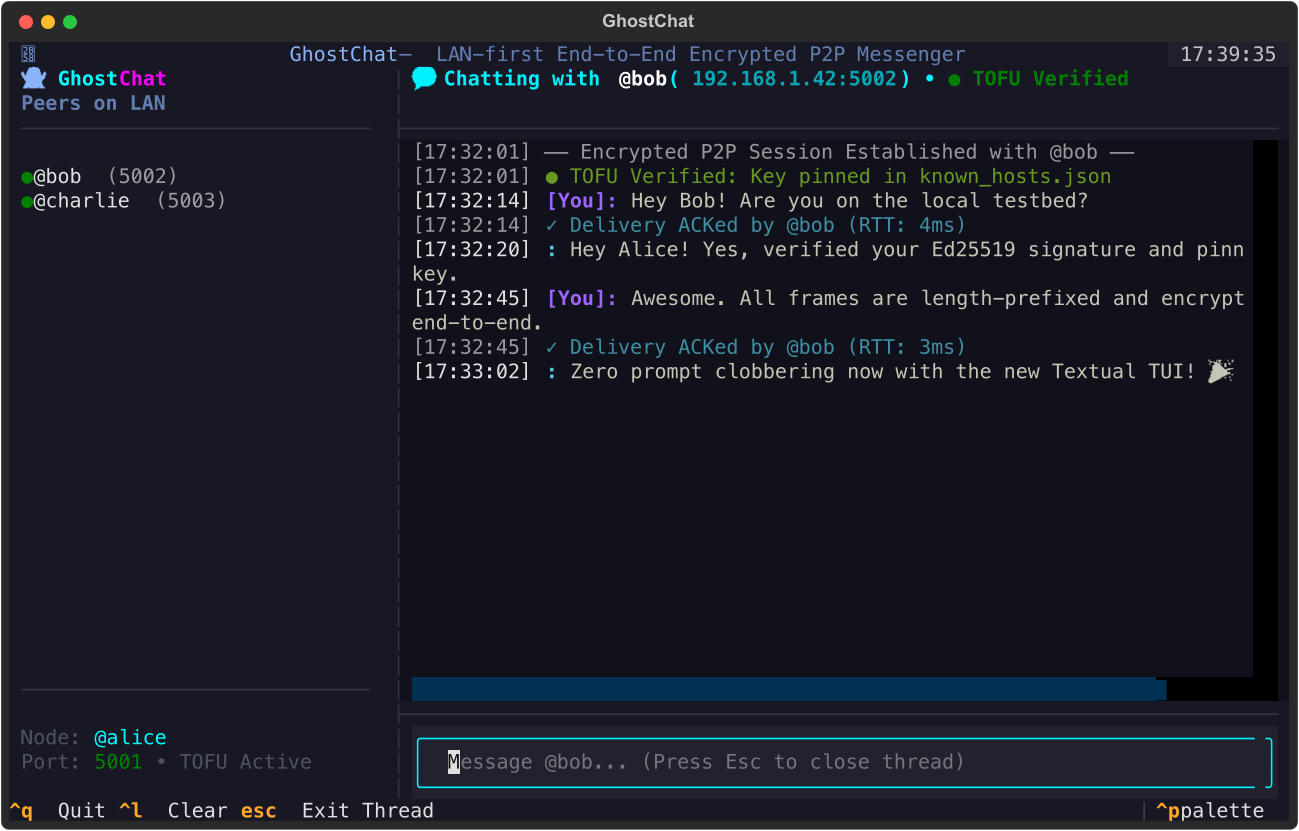
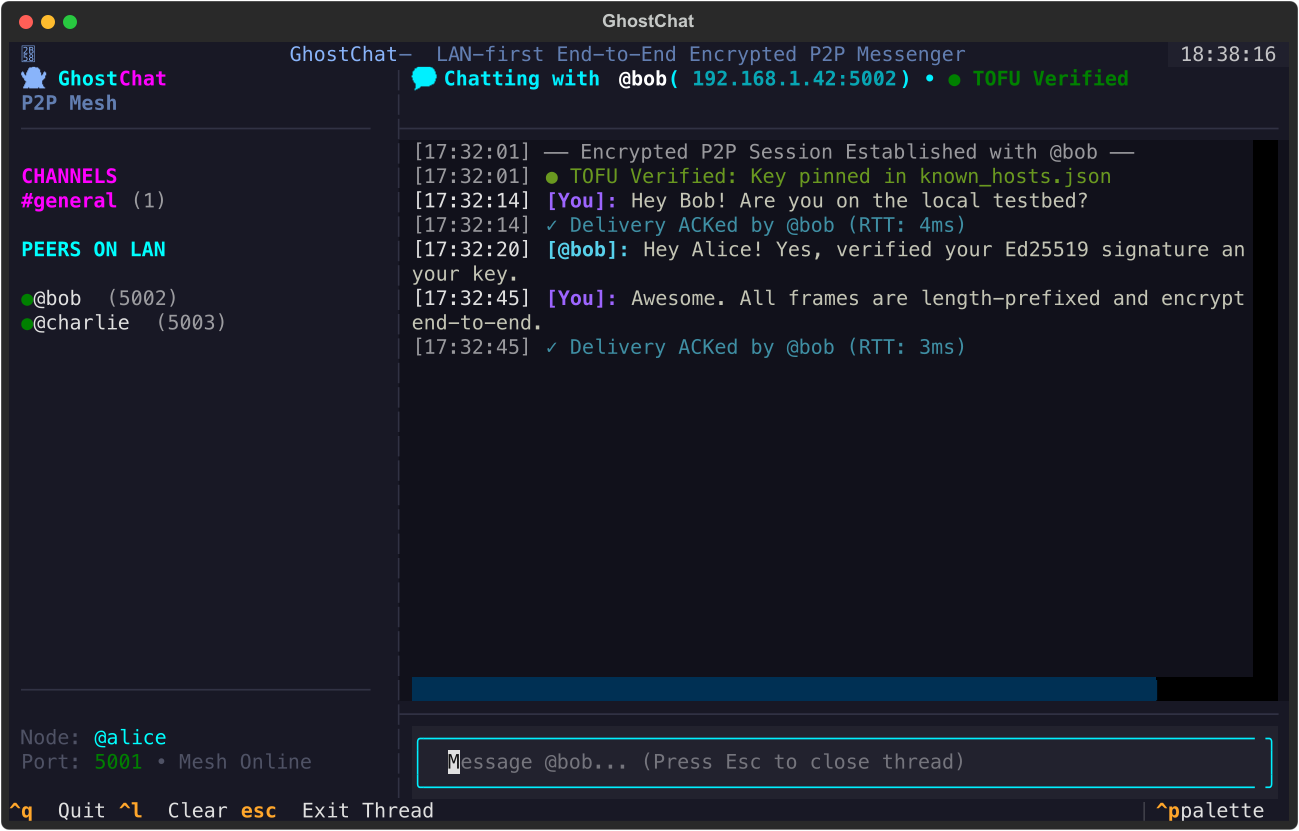
fix(tui): isolate thread panes and add per-peer conversation history
- Clear chat pane on opening any channel or peer thread to eliminate thread mixing
- Add persistent per-peer conversation history tracking in SessionManager
- Replay complete thread history upon switching between peers and channels
- Replace chat log notice spam with non-intrusive Textual toast notifications (self.notify)
- Prevent incoming messages for other peers/channels from polluting or clobbering the active thread
- Clear chat pane when returning to Welcome Dashboard with Esc
- Add comprehensive automated test for thread pane isolation (tests/test_tui.py)

diff --git a/ghostchat/ui/app.py b/ghostchat/ui/app.py
@@ -291,10 +291,10 @@ class GhostChatTUIApp(App):
                     )
             else:
                 self.refresh_channels_sidebar()
-                if self.active_peer or self.backend.session.active_channel:
-                    chat_log.write(
-                        f"[dim][{timestamp}] [yellow]Notice:[/yellow] New message in [bold magenta]{escape(channel)}[/bold magenta] from @{escape(sender)}.[/dim]"
-                    )
+                try:
+                    self.notify(f"New message from @{sender}", title=f"Channel {channel}", severity="information")
+                except Exception:
+                    pass
 
         self.call_from_thread(update_ui)
 
@@ -325,21 +325,19 @@ class GhostChatTUIApp(App):
             if routing.get("action") == "active":
                 chat_log.write(f"[{timestamp}] [bold cyan]{escape(f'[@{sender}]')}:[/bold cyan] [white]{escape(text)}[/white]")
             elif routing.get("action") == "auto_opened":
-                # Auto-open thread
+                # Auto-open thread cleanly from welcome dashboard
                 matched = routing.get("peer")
                 if matched:
-                    self.open_chat_thread(matched, quiet=True)
-                chat_log.write(f"[{timestamp}] [bold cyan]{escape(f'[@{sender}]')}:[/bold cyan] [white]{escape(text)}[/white]")
+                    self.open_chat_thread(matched, quiet=False)
             elif routing.get("action") == "queued":
-                # Background unread
+                # Message is for another thread; update sidebar badge and display toast notification
                 self.refresh_peer_sidebar()
-                if self.active_peer:
-                    chat_log.write(
-                        f"[dim][{timestamp}] [yellow]Notice:[/yellow] New message from @{escape(sender)}. "
-                        "Switch peer to view.[/dim]"
-                    )
+                try:
+                    self.notify(f"New direct message from @{sender}", title="Direct Message", severity="information")
+                except Exception:
+                    pass
             else:
-                chat_log.write(f"[{timestamp}] [bold green]{escape(f'[@{sender}]')}:[/bold green] [white]{escape(text)}[/white]")
+                self.refresh_peer_sidebar()
 
         self.call_from_thread(update_ui)
 
@@ -358,7 +356,7 @@ class GhostChatTUIApp(App):
 
     def open_chat_thread(self, peer: Peer, quiet: bool = False) -> None:
         self.active_peer = peer
-        pending_entry = self.backend.session.set_active_peer(peer)
+        self.backend.session.set_active_peer(peer)
 
         welcome_view = self.query_one("#welcome-container")
         chat_log = self.query_one("#chat-log", RichLog)
@@ -367,6 +365,7 @@ class GhostChatTUIApp(App):
 
         welcome_view.styles.display = "none"
         chat_log.styles.display = "block"
+        chat_log.clear()
 
         trust_tag = "[green]● TOFU Verified[/green]" if peer.is_trusted else "[red]▲ UNTRUSTED[/red]"
         chat_header.update(
@@ -382,14 +381,19 @@ class GhostChatTUIApp(App):
                 f"[dim][{timestamp}] ── Thread opened with @{peer.username} ──[/dim]"
             )
 
-        # Replay any buffered unread messages
-        if pending_entry and pending_entry.get("messages"):
-            for msg in pending_entry["messages"]:
-                chat_log.write(
-                    f"[bold cyan]{escape(f'[@{peer.username}]')}:[/bold cyan] [white]{escape(msg)}[/white]"
-                )
+        # Replay full peer conversation history
+        history = self.backend.session.get_peer_messages(peer.peer_id)
+        for entry in history:
+            t = time.strftime("%H:%M:%S", time.localtime(entry.get("timestamp", time.time())))
+            sender = entry.get("sender", "unknown")
+            text = entry.get("text", "")
+            if entry.get("is_self") or sender == self.backend.username:
+                chat_log.write(f"[{t}] [bold blue][You]:[/bold blue] [white]{escape(text)}[/white]")
+            else:
+                chat_log.write(f"[{t}] [bold cyan]{escape(f'[@{peer.username}]')}:[/bold cyan] [white]{escape(text)}[/white]")
 
         self.refresh_peer_sidebar()
+        self.refresh_channels_sidebar()
 
     def open_channel_thread(self, channel: str, quiet: bool = False) -> None:
         self.active_peer = None
@@ -431,6 +435,7 @@ class GhostChatTUIApp(App):
             else:
                 chat_log.write(f"[{t}] [bold magenta]{escape(f'[{channel} | @{sender}]')}:[/bold magenta] [white]{escape(text)}[/white]")
 
+        self.refresh_peer_sidebar()
         self.refresh_channels_sidebar()
 
     def action_close_thread(self) -> None:
@@ -442,6 +447,7 @@ class GhostChatTUIApp(App):
         chat_header = self.query_one("#chat-header", Static)
         message_input = self.query_one("#message-input", Input)
 
+        chat_log.clear()
         chat_log.styles.display = "none"
         welcome_view.styles.display = "block"
         chat_header.update("👻 GhostChat • No active thread (Select a channel or peer or type /help)")
@@ -493,6 +499,7 @@ class GhostChatTUIApp(App):
         # Regular message in active 1-on-1 peer chat thread
         if self.active_peer is not None:
             peer = self.active_peer
+            self.backend.session.record_outgoing_peer_message(peer.peer_id, self.backend.username, text)
             chat_log.write(f"[{timestamp}] [bold blue][You]:[/bold blue] [white]{escape(text)}[/white]")
             threading.Thread(
                 target=self._send_message_worker,
@@ -645,7 +652,12 @@ class GhostChatTUIApp(App):
                 chat_log.write(f"[yellow]Multiple peers match '{escape(target_token)}'. Specify username@port.[/yellow]")
                 return
             chat_log.write(f"[{timestamp}] [bold blue]{escape(f'[To @{resolved.username}]')}:[/bold blue] [white]{escape(msg_text)}[/white]")
+            self.backend.session.record_outgoing_peer_message(resolved.peer_id, self.backend.username, msg_text)
             threading.Thread(target=self._send_message_worker, args=(resolved, msg_text), daemon=True).start()
+            return
+
+        if cmd_line == "/chat":
+            chat_log.write("[yellow]Usage: /chat <@peer or #channel>[/yellow]")
             return
 
         if cmd_line.startswith("/chat "):
@@ -655,10 +667,10 @@ class GhostChatTUIApp(App):
                 return
             resolved = SessionManager.resolve_target(self.backend.discovery.peers(), target_token)
             if resolved is None:
-                chat_log.write(f"[yellow]Peer '{target_token}' not found.[/yellow]")
+                chat_log.write(f"[yellow]Peer '{escape(target_token)}' not found.[/yellow]")
                 return
             if isinstance(resolved, list):
-                chat_log.write(f"[yellow]Multiple peers match '{target_token}'.[/yellow]")
+                chat_log.write(f"[yellow]Multiple peers match '{escape(target_token)}'. Specify username@port.[/yellow]")
                 return
             self.open_chat_thread(resolved)
             return

diff --git a/tests/test_tui.py b/tests/test_tui.py
@@ -106,3 +106,87 @@ def test_tui_input_visibility_and_command(tmp_path, monkeypatch) -> None:
             assert chat_log.styles.display == "block"
 
     asyncio.run(run())
+
+
+def test_tui_thread_pane_isolation(tmp_path, monkeypatch) -> None:
+    async def run() -> None:
+        monkeypatch.setattr("ghostchat.crypto.keys.KEY_ROOT_DIR", tmp_path)
+        backend = GhostChatApp(username="alice", port=59998)
+        tui_app = GhostChatTUIApp(backend=backend)
+
+        import base64
+        from nacl.public import PrivateKey
+
+        valid_pk_b64 = base64.b64encode(bytes(PrivateKey.generate().public_key)).decode("utf-8")
+
+        bob = Peer(
+            peer_id="bob-id",
+            username="bob",
+            ip="127.0.0.1",
+            tcp_port=59992,
+            enc_public_key_b64=valid_pk_b64,
+            sign_public_key_b64=valid_pk_b64,
+            last_seen=1000.0,
+        )
+
+        async with tui_app.run_test(size=(100, 30)) as pilot:
+            # 1. Open Bob's thread
+            tui_app.open_chat_thread(bob)
+            msg_input = tui_app.query_one("#message-input", Input)
+            msg_input.value = "Hello Bob direct message"
+            await pilot.press("enter")
+
+            # Verify recorded in Bob's history
+            bob_msgs = backend.session.get_peer_messages(bob.peer_id)
+            assert len(bob_msgs) == 1
+            assert bob_msgs[0]["text"] == "Hello Bob direct message"
+
+            # 2. Switch to channel #general
+            tui_app.open_channel_thread("#general")
+            assert backend.session.active_channel == "#general"
+            assert tui_app.active_peer is None
+
+            # Bob's message should NOT be in #general's history
+            gen_msgs = backend.session.get_channel_messages("#general")
+            assert not any("Hello Bob direct message" in m["text"] for m in gen_msgs)
+
+            # Send in #general
+            msg_input.value = "Broadcast in general mesh"
+            await pilot.press("enter")
+            gen_msgs_after = backend.session.get_channel_messages("#general")
+            assert len(gen_msgs_after) >= 1
+            assert gen_msgs_after[-1]["text"] == "Broadcast in general mesh"
+
+            # 3. Switch back to Bob's thread
+            tui_app.open_chat_thread(bob)
+            assert tui_app.active_peer == bob
+            assert backend.session.active_channel is None
+
+            # Replayed history contains Bob's message
+            bob_msgs_after = backend.session.get_peer_messages(bob.peer_id)
+            assert len(bob_msgs_after) == 1
+            assert bob_msgs_after[0]["text"] == "Hello Bob direct message"
+
+            # 4. Simulate an incoming message from Charlie while viewing Bob
+            charlie = Peer(
+                peer_id="charlie-id",
+                username="charlie",
+                ip="127.0.0.1",
+                tcp_port=59993,
+                enc_public_key_b64="enc_key_c",
+                sign_public_key_b64="sign_key_c",
+                last_seen=1000.0,
+            )
+            routing = backend.session.record_incoming_message(
+                sender_peer_id=charlie.peer_id,
+                matched_peer=charlie,
+                plaintext="Hey Alice from Charlie",
+            )
+            # Routing must be queued (not active and not clobbering)
+            assert routing["action"] == "queued"
+            assert routing["unread_count"] == 1
+
+            # Bob's active thread is intact
+            assert tui_app.active_peer == bob
+
+    asyncio.run(run())

diff --git a/ghostchat/session/manager.py b/ghostchat/session/manager.py
@@ -1,5 +1,6 @@
 import base64
 import threading
+import time
 from typing import Any, Dict, List, Optional, Set, Tuple, Union
 
 from nacl.secret import SecretBox
@@ -21,6 +22,9 @@ class SessionManager:
         self._active_channel: Optional[str] = None
         self._channel_unread: Dict[str, int] = {}
         self._channel_messages: Dict[str, List[Dict[str, Any]]] = {"#general": []}
+
+        # Peer message history: peer_id -> List[Dict[str, Any]]
+        self._peer_messages: Dict[str, List[Dict[str, Any]]] = {}
 
     @property
     def chat_peer(self) -> Optional[Peer]:
@@ -46,6 +50,23 @@ class SessionManager:
             if peer and peer.peer_id in self._pending_chats:
                 return self._pending_chats.pop(peer.peer_id)
             return None
+
+    def record_outgoing_peer_message(self, peer_id: str, username: str, text: str) -> None:
+        """Record an outgoing message sent to a peer."""
+        with self._lock:
+            if peer_id not in self._peer_messages:
+                self._peer_messages[peer_id] = []
+            self._peer_messages[peer_id].append({
+                "sender": username,
+                "text": text,
+                "timestamp": time.time(),
+                "is_self": True,
+            })
+
+    def get_peer_messages(self, peer_id: str) -> List[Dict[str, Any]]:
+        """Retrieve full conversation history for a peer."""
+        with self._lock:
+            return list(self._peer_messages.get(peer_id, []))
 
     def set_active_channel(self, channel: Optional[str]) -> None:
         """Sets active channel and clears unread badge."""
@@ -172,17 +193,27 @@ class SessionManager:
           - peer: Peer
         """
         with self._lock:
+            sender_name = matched_peer.username if matched_peer else "peer"
+            if sender_peer_id not in self._peer_messages:
+                self._peer_messages[sender_peer_id] = []
+            self._peer_messages[sender_peer_id].append({
+                "sender": sender_name,
+                "text": plaintext,
+                "timestamp": time.time(),
+                "is_self": False,
+            })
+
             # Case 1: In an active thread with this exact sender
             if self._chat_peer and self._chat_peer.peer_id == sender_peer_id:
                 return {"action": "active", "peer": self._chat_peer}
 
-            # Case 2: No active thread -> auto-open thread if peer is known
-            if self._chat_peer is None and matched_peer is not None:
+            # Case 2: No active thread at all (idle on welcome dashboard)
+            if self._chat_peer is None and self._active_channel is None and matched_peer is not None:
                 self._chat_peer = matched_peer
                 self._pending_chats.pop(sender_peer_id, None)
                 return {"action": "auto_opened", "peer": matched_peer}
 
-            # Case 3: In an active thread with someone else -> buffer as pending
+            # Case 3: In an active thread with someone else or in a channel -> buffer as pending
             if matched_peer is not None:
                 if sender_peer_id in self._pending_chats:
                     self._pending_chats[sender_peer_id]["unread"] += 1
@@ -200,6 +231,7 @@ class SessionManager:
                     "peer": matched_peer,
                     "unread_count": unread,
                     "active_peer": self._chat_peer,
+                    "active_channel": self._active_channel,
                 }
 
             return {"action": "untracked"}

diff --git a/LEARNING_AND_IMPLEMENTATION.md b/LEARNING_AND_IMPLEMENTATION.md
@@ -376,6 +376,14 @@ In direct 1-to-1 TCP, you can verify the immediate socket connection. In a gossi
   3. Retroactively decrypts historical messages using PyNaCl `SecretBox`.
   4. Automatically refreshes the active thread to reveal decrypted text in real time.
 
+#### 5. Thread Pane Isolation & Per-Peer Conversation History
+- *The Problem*: Messages from different peers and group channels were all accumulating in a single message pane. Switching threads did not clear the view, and 1-on-1 direct messages were not persisted in a per-peer history. If a message arrived for another channel or peer, it either clobbered the current view or injected notice strings into the middle of the active conversation.
+- *The Fix*:
+  1. **Per-Peer History Tracking**: Added `_peer_messages` in `SessionManager` recording both incoming and outgoing direct messages chronologically with sender identity and timestamp.
+  2. **Clean Pane Switching**: Both `open_chat_thread(peer)` and `open_channel_thread(channel)` now invoke `chat_log.clear()` upon opening and replay only that specific thread's history. Switching threads completely changes the pane.
+  3. **Non-Intrusive Notifications**: Background messages for channels or peers not currently in focus update the sidebar unread counters (`[1]`) and trigger sleek Textual toast notifications (`self.notify()`) instead of polluting the active conversation feed.
+  4. **Clean Exit**: Pressing `Esc` (`action_close_thread`) clears the chat pane and cleanly returns the user to the Welcome Dashboard.
+
 ---
 
 ## 7. Next Frontiers: Beyond Phase 3
